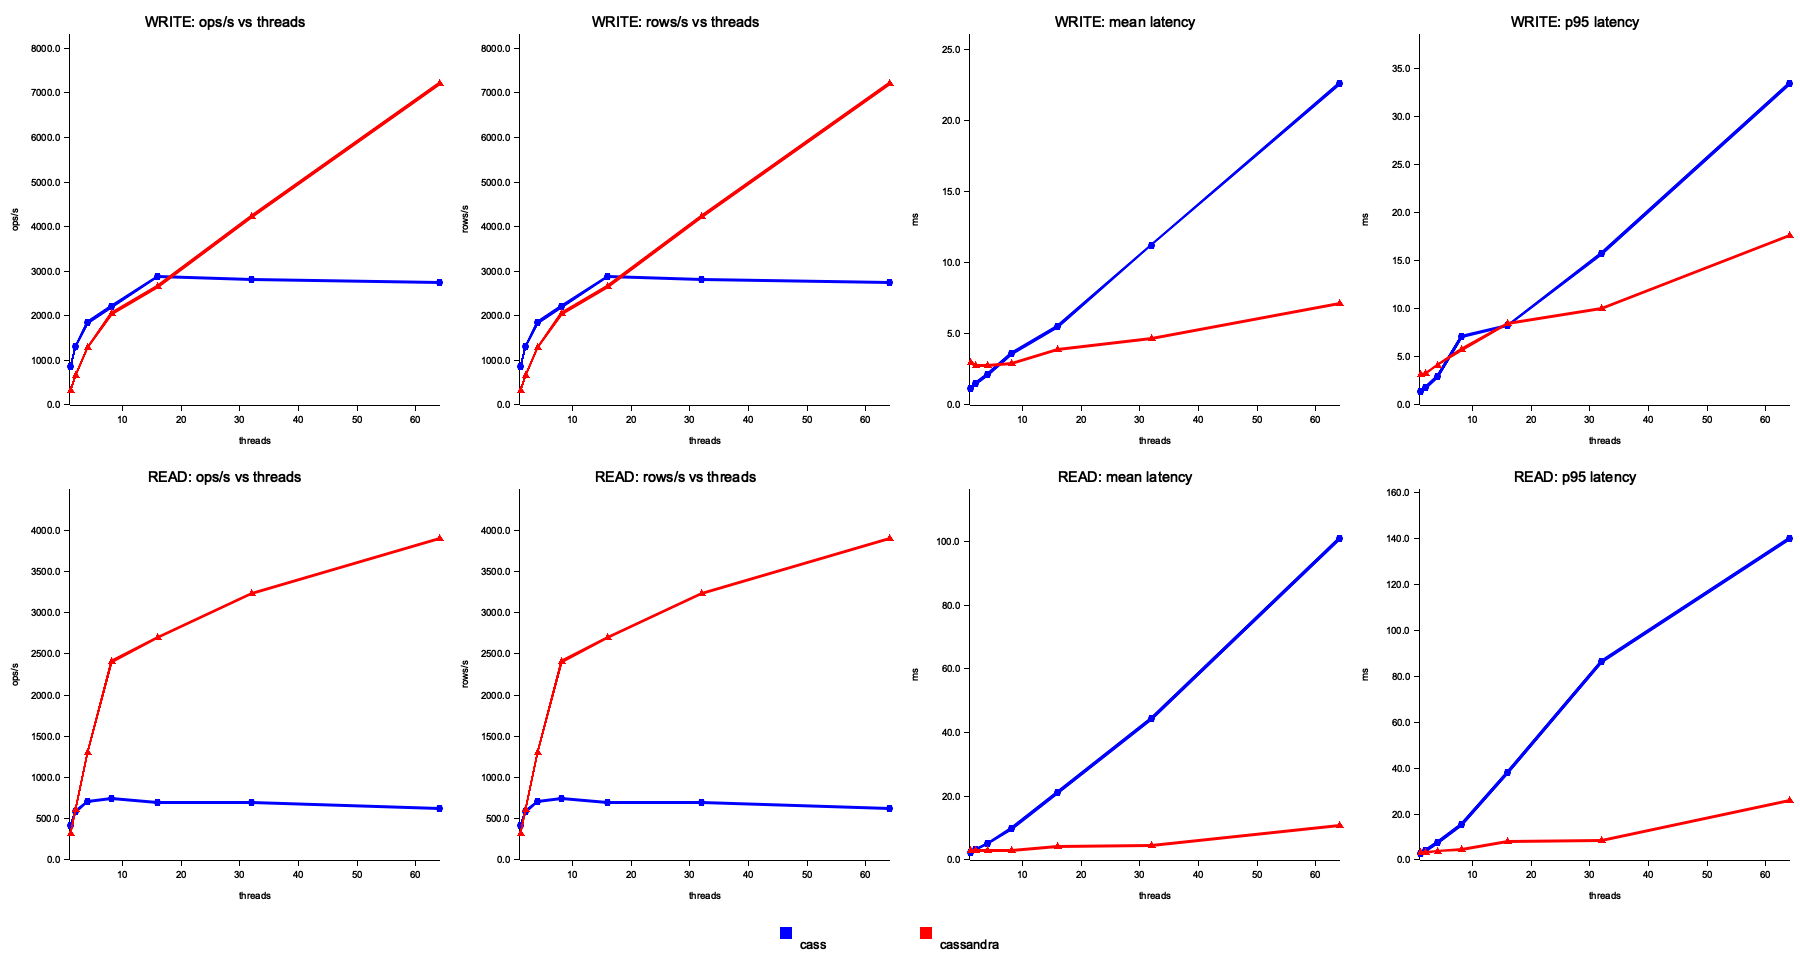
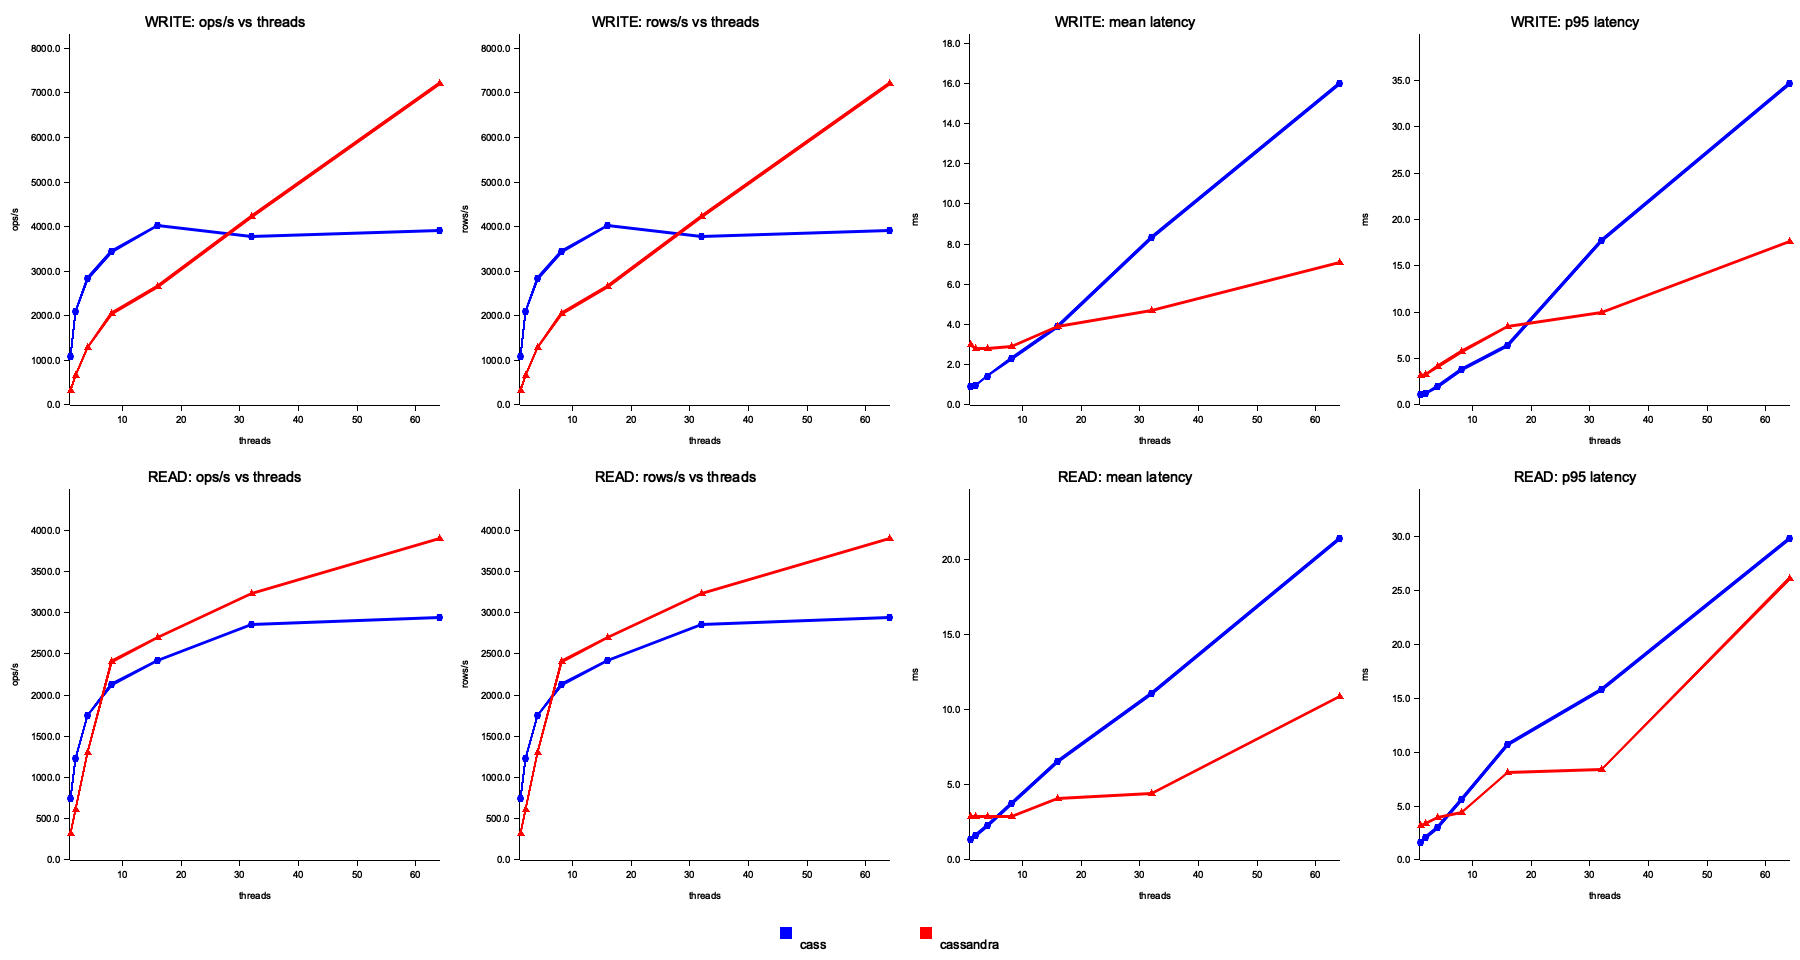
Make cass' memtable flush logic the same as cassandra's

diff --git a/src/memtable.rs b/src/memtable.rs
@@ -1,23 +1,49 @@
 use std::collections::BTreeMap;
 use tokio::sync::RwLock;
 
+struct InnerTable {
+    map: BTreeMap<String, Vec<u8>>,
+    size_bytes: usize,
+}
+
+impl InnerTable {
+    fn new() -> Self {
+        Self {
+            map: BTreeMap::new(),
+            size_bytes: 0,
+        }
+    }
+}
+
 /// Thread-safe in-memory table backed by a `BTreeMap`.
 pub struct MemTable {
-    /// Protected map storing raw key/value pairs.
-    data: RwLock<BTreeMap<String, Vec<u8>>>,
+    /// Protected map storing raw key/value pairs alongside accumulated size.
+    data: RwLock<InnerTable>,
 }
 
 impl MemTable {
     /// Create a new, empty [`MemTable`].
     pub fn new() -> Self {
         Self {
-            data: RwLock::new(BTreeMap::new()),
+            data: RwLock::new(InnerTable::new()),
         }
     }
 
     /// Insert a `key`/`value` pair into the table.
     pub async fn insert(&self, key: String, value: Vec<u8>) {
-        self.data.write().await.insert(key, value);
+        let key_len = key.len();
+        let value_len = value.len();
+        let mut guard = self.data.write().await;
+        match guard.map.insert(key, value) {
+            Some(prev) => {
+                // Key already accounted for; just adjust for value delta.
+                guard.size_bytes = guard.size_bytes.saturating_sub(prev.len());
+                guard.size_bytes += value_len;
+            }
+            None => {
+                guard.size_bytes += key_len + value_len;
+            }
+        }
     }
 
     /// Insert `key` with `value` only if it does not already exist.
@@ -27,23 +53,29 @@ impl MemTable {
     /// for lightweight transactions where we need to ensure a row is only
     /// written once.
     pub async fn insert_if_absent(&self, key: String, value: Vec<u8>) -> bool {
-        let mut map = self.data.write().await;
-        if map.contains_key(&key) {
+        let key_len = key.len();
+        let value_len = value.len();
+        let mut guard = self.data.write().await;
+        if guard.map.contains_key(&key) {
             false
         } else {
-            map.insert(key, value);
+            guard.size_bytes += key_len + value_len;
+            guard.map.insert(key, value);
             true
         }
     }
 
     /// Retrieve the value for `key` if it exists.
     pub async fn get(&self, key: &str) -> Option<Vec<u8>> {
-        self.data.read().await.get(key).cloned()
+        self.data.read().await.map.get(key).cloned()
     }
 
     /// Remove a `key` from the table.
     pub async fn delete(&self, key: &str) {
-        self.data.write().await.remove(key);
+        let mut guard = self.data.write().await;
+        if let Some(prev) = guard.map.remove(key) {
+            guard.size_bytes = guard.size_bytes.saturating_sub(key.len() + prev.len());
+        }
     }
 
     /// Return all entries currently stored in the table.
@@ -51,6 +83,7 @@ impl MemTable {
         self.data
             .read()
             .await
+            .map
             .iter()
             .map(|(k, v)| (k.clone(), v.clone()))
             .collect()
@@ -58,19 +91,34 @@ impl MemTable {
 
     /// Return the number of entries in the table.
     pub async fn len(&self) -> usize {
-        self.data.read().await.len()
+        self.data.read().await.map.len()
     }
 
     /// Remove all entries from the table.
     pub async fn clear(&self) {
-        self.data.write().await.clear();
+        let mut guard = self.data.write().await;
+        guard.map.clear();
+        guard.size_bytes = 0;
     }
 
     /// Delete every key that begins with `prefix`.
     pub async fn delete_prefix(&self, prefix: &str) {
-        self.data
-            .write()
-            .await
-            .retain(|k, _| !k.starts_with(prefix));
+        let mut guard = self.data.write().await;
+        let keys: Vec<String> = guard
+            .map
+            .keys()
+            .filter(|k| k.starts_with(prefix))
+            .cloned()
+            .collect();
+        for key in keys {
+            if let Some(prev) = guard.map.remove(&key) {
+                guard.size_bytes = guard.size_bytes.saturating_sub(key.len() + prev.len());
+            }
+        }
+    }
+
+    /// Return the total number of bytes occupied by keys and values.
+    pub async fn size_bytes(&self) -> usize {
+        self.data.read().await.size_bytes
     }
 }

diff --git a/examples/perf_client.rs b/examples/perf_client.rs
@@ -2,8 +2,8 @@ use std::time::Instant;
 
 use cass::rpc::{QueryRequest, cass_client::CassClient};
 use clap::Parser;
-use statrs::statistics::Statistics;
 use futures::stream::{self, StreamExt};
+use statrs::statistics::Statistics;
 use tokio::fs;
 use url::Url;
 
@@ -40,11 +40,23 @@ async fn main() -> Result<(), Box<dyn std::error::Error>> {
     }
 
     // Writes with concurrency
-    let (write_lat_ms, write_dur) =
-        run_phase(args.node.clone(), args.ops, args.threads, args.inflight, true).await?;
+    let (write_lat_ms, write_dur) = run_phase(
+        args.node.clone(),
+        args.ops,
+        args.threads,
+        args.inflight,
+        true,
+    )
+    .await?;
     // Reads with concurrency
-    let (read_lat_ms, read_dur) =
-        run_phase(args.node.clone(), args.ops, args.threads, args.inflight, false).await?;
+    let (read_lat_ms, read_dur) = run_phase(
+        args.node.clone(),
+        args.ops,
+        args.threads,
+        args.inflight,
+        false,
+    )
+    .await?;
 
     // Report in a style similar to cassandra-stress
     report("WRITE", args.ops, write_dur.as_secs_f64(), &write_lat_ms);
@@ -93,7 +105,9 @@ async fn run_phase(
         let offset = t * base + t.min(rem);
         handles.push(tokio::spawn(async move {
             let inflight = inflight.max(1);
-            if count == 0 { return Vec::<f64>::new(); }
+            if count == 0 {
+                return Vec::<f64>::new();
+            }
             let futs = (0..count).map(|i| {
                 // clone a client for this op; clones share the channel
                 let mut client = (*base_client).clone();
@@ -109,13 +123,18 @@ async fn run_phase(
                     op_start.elapsed().as_secs_f64() * 1000.0
                 }
             });
-            let lats: Vec<f64> = stream::iter(futs).buffer_unordered(inflight).collect().await;
+            let lats: Vec<f64> = stream::iter(futs)
+                .buffer_unordered(inflight)
+                .collect()
+                .await;
             lats
         }));
     }
     let mut all = Vec::with_capacity(ops);
     for h in handles {
-        if let Ok(v) = h.await { all.extend(v); }
+        if let Ok(v) = h.await {
+            all.extend(v);
+        }
     }
     let dur = start.elapsed();
     Ok((all, dur))

diff --git a/src/lib.rs b/src/lib.rs
@@ -22,12 +22,15 @@ use std::time::{SystemTime, UNIX_EPOCH};
 /// storage layer.
 pub struct DatabaseOptions {
     pub wal: wal::WalOptions,
+    /// Approximate upper bound (in bytes) before the memtable is flushed.
+    pub max_memtable_bytes: usize,
 }
 
 impl Default for DatabaseOptions {
     fn default() -> Self {
         Self {
             wal: wal::WalOptions::default(),
+            max_memtable_bytes: 128 * 1024 * 1024,
         }
     }
 }
@@ -36,7 +39,7 @@ pub struct Database {
     storage: Arc<dyn storage::Storage>,
     memtable: memtable::MemTable,
     sstables: tokio::sync::RwLock<Vec<sstable::SsTable>>,
-    max_memtable_size: usize,
+    max_memtable_bytes: usize,
     next_id: std::sync::atomic::AtomicUsize,
     wal: wal::Wal,
 }
@@ -58,8 +61,12 @@ impl Database {
         options: DatabaseOptions,
     ) -> std::io::Result<Self> {
         let wal_path = wal_path.into();
+        let DatabaseOptions {
+            wal: wal_options,
+            max_memtable_bytes,
+        } = options;
         let (wal, entries) =
-            wal::Wal::new_with_options(storage.clone(), wal_path, options.wal).await?;
+            wal::Wal::new_with_options(storage.clone(), wal_path, wal_options).await?;
         let memtable = memtable::MemTable::new();
         for (k, v) in entries {
             memtable.insert(k, v).await;
@@ -96,7 +103,7 @@ impl Database {
             memtable,
             sstables: tokio::sync::RwLock::new(sstables),
             // default threshold before automatically flushing to disk
-            max_memtable_size: 1024,
+            max_memtable_bytes,
             next_id: std::sync::atomic::AtomicUsize::new(next_id),
             wal,
         })
@@ -134,7 +141,7 @@ impl Database {
         let _ = self.wal.append(&rec).await;
 
         self.memtable.insert(key, value).await;
-        if self.memtable.len().await >= self.max_memtable_size {
+        if self.memtable.size_bytes().await >= self.max_memtable_bytes {
             // best-effort flush; ignore errors for now
             let _ = self.flush().await;
         }

diff --git a/tests/cluster_remote_ops_test.rs b/tests/cluster_remote_ops_test.rs
@@ -39,8 +39,12 @@ async fn flush_all_calls_remote_nodes() {
     ]);
 
     let mut ready = false;
-    for _ in 0..100 { // up to ~5s
-        if CassClient::connect(remote_addr.clone()).await.is_ok() { ready = true; break; }
+    for _ in 0..100 {
+        // up to ~5s
+        if CassClient::connect(remote_addr.clone()).await.is_ok() {
+            ready = true;
+            break;
+        }
         sleep(Duration::from_millis(50)).await;
     }
     assert!(ready, "remote server did not become ready: {}", remote_addr);
@@ -62,8 +66,12 @@ async fn execute_lwt_remote_branches() {
     ]);
 
     let mut ready = false;
-    for _ in 0..100 { // up to ~5s
-        if CassClient::connect(remote_addr.clone()).await.is_ok() { ready = true; break; }
+    for _ in 0..100 {
+        // up to ~5s
+        if CassClient::connect(remote_addr.clone()).await.is_ok() {
+            ready = true;
+            break;
+        }
         sleep(Duration::from_millis(50)).await;
     }
     assert!(ready, "remote server did not become ready: {}", remote_addr);

diff --git a/src/storage/local.rs b/src/storage/local.rs
@@ -1,6 +1,9 @@
 use super::{Storage, StorageError};
 use async_trait::async_trait;
-use std::{collections::HashMap, path::{Path, PathBuf}};
+use std::{
+    collections::HashMap,
+    path::{Path, PathBuf},
+};
 use tokio::{io::AsyncWriteExt, sync::Mutex};
 
 pub struct LocalStorage {
@@ -50,7 +53,11 @@ impl Storage for LocalStorage {
             if let Some(h) = map.get(&p) {
                 h.clone()
             } else {
-                let file = OpenOptions::new().create(true).append(true).open(&p).await?;
+                let file = OpenOptions::new()
+                    .create(true)
+                    .append(true)
+                    .open(&p)
+                    .await?;
                 let arc = std::sync::Arc::new(Mutex::new(file));
                 map.insert(p.clone(), arc.clone());
                 arc

diff --git a/src/main.rs b/src/main.rs
@@ -259,6 +259,7 @@ async fn run_server(args: ServerArgs) -> Result<(), Box<dyn std::error::Error>> 
         wal: WalOptions {
             commitlog_sync_period: Duration::from_millis(args.commitlog_sync_period_ms),
         },
+        ..DatabaseOptions::default()
     };
     let db = Arc::new(Database::new_with_options(storage, "wal.log", db_options).await?);
     let cluster = Arc::new(Cluster::new_with_consistency(
